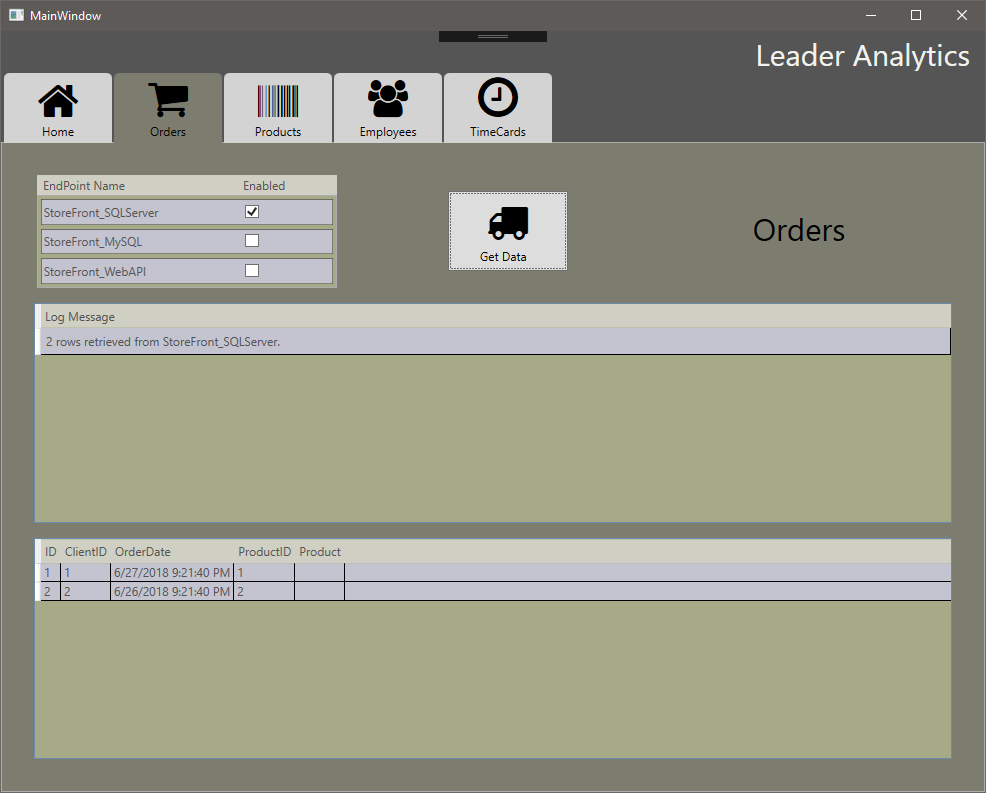
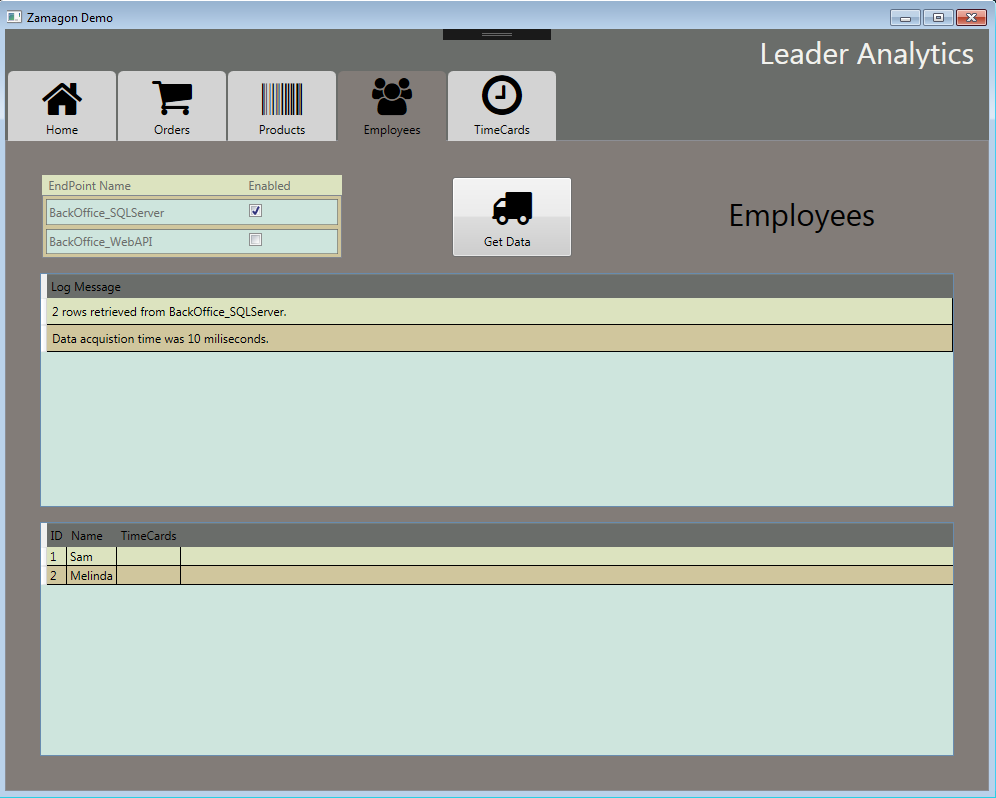
Cosmetic fixes

diff --git a/Zamagon.UI/Zamagon.WPF/App.xaml b/Zamagon.UI/Zamagon.WPF/App.xaml
@@ -5,11 +5,23 @@
              xmlns:fa="http://schemas.fontawesome.io/icons/"
              Startup="Application_Startup">
     <Application.Resources>
-        <SolidColorBrush x:Key="Color1" Color="#C4C3D0" />
+        <!--<SolidColorBrush x:Key="Color1" Color="#C4C3D0" />
         <SolidColorBrush x:Key="Color2" Color="#CFD0C3" />
         <SolidColorBrush x:Key="Color3" Color="#A7AA86" />
         <SolidColorBrush x:Key="Color4" Color="#7C7D6F" />
-        <SolidColorBrush x:Key="Color5" Color="#555555" />
+        <SolidColorBrush x:Key="Color5" Color="#555555" />-->
+        
+        <!--<SolidColorBrush x:Key="Color1" Color="#A1A0A0" />
+        <SolidColorBrush x:Key="Color2" Color="#727272" />
+        <SolidColorBrush x:Key="Color3" Color="#494848" />
+        <SolidColorBrush x:Key="Color4" Color="#222222" />
+        <SolidColorBrush x:Key="Color5" Color="#060606" />-->
+
+        <SolidColorBrush x:Key="Color1" Color="#CEE5DD" />
+        <SolidColorBrush x:Key="Color2" Color="#DCE3BF" />
+        <SolidColorBrush x:Key="Color3" Color="#D0C69D" />
+        <SolidColorBrush x:Key="Color4" Color="#827C78" />
+        <SolidColorBrush x:Key="Color5" Color="#6A6D6A" />
 
 
         <Style TargetType="Grid" x:Key="GridColors">
@@ -20,16 +32,16 @@
             <Setter Property="ColumnHeaderStyle">
                 <Setter.Value>
                     <Style TargetType="DataGridColumnHeader">
-                        <Setter Property="Background" Value="{StaticResource Color2}"/>
-                        <Setter Property="Foreground" Value="{StaticResource Color5}"/>
+                        <Setter Property="Background" Value="{StaticResource Color5}"/>
+                        <Setter Property="Foreground" Value="Black"/>
                         <Setter Property="Padding" Value="4"/>
                     </Style>
                 </Setter.Value>
             </Setter>
-            <Setter Property="Background" Value="{StaticResource Color3}"/>
-            <Setter Property="Foreground" Value="{StaticResource Color5}"/>
-            <Setter Property="RowBackground" Value="{StaticResource Color1}"/>
-            <Setter Property="AlternatingRowBackground" Value="{StaticResource Color1}"/>
+            <Setter Property="Background" Value="{StaticResource Color1}"/>
+            <Setter Property="Foreground" Value="Black"/>
+            <Setter Property="RowBackground" Value="{StaticResource Color2}"/>
+            <Setter Property="AlternatingRowBackground" Value="{StaticResource Color3}"/>
         </Style>
 
         <Style TargetType="local:EndPointListBox">

diff --git a/Zamagon.UI/Zamagon.WPF/Views/HomeView.xaml b/Zamagon.UI/Zamagon.WPF/Views/HomeView.xaml
@@ -9,7 +9,7 @@
              d:DesignHeight="450" d:DesignWidth="800">
     <ScrollViewer VerticalScrollBarVisibility="Auto">
         
-    <StackPanel Orientation="Vertical" Margin="25" Background="#FFB2B2B0" >
+    <StackPanel Orientation="Vertical" Margin="25" Background="WhiteSmoke" >
         <StackPanel.Resources>
             <Style TargetType="{x:Type TextBlock}">
                 <Setter Property="FontSize" Value="16"/>

diff --git a/Zamagon.UI/Zamagon.WPF/Views/OrdersViewModel.cs b/Zamagon.UI/Zamagon.WPF/Views/OrdersViewModel.cs
@@ -1,4 +1,5 @@
 using System;
+using System.Diagnostics;
 using System.Collections.Generic;
 using System.Collections.ObjectModel;
 using System.Linq;
@@ -24,10 +25,13 @@ namespace Zamagon.WPF.Views
         public override async Task GetData(object arg)
         {
             await base.GetData(API_Name.StoreFront);
+            Stopwatch sw = Stopwatch.StartNew();
             StoreFrontServiceClient = Container.Resolve<IAdaptiveClient<ISFServiceManifest>>();
-            List<Order> orders = await StoreFrontServiceClient.TryAsync(async x => await x.OrdersService.GetOrders());
+            List<Order> orders = await StoreFrontServiceClient.TryAsync(x => x.OrdersService.GetOrders());
+            sw.Stop();
             orders.ForEach(x => Entities.Add(x));
             LogMessages.Add($"{orders.Count} rows retrieved from {StoreFrontServiceClient.CurrentEndPoint.Name}.");
+            LogMessages.Add($"Data acquistion time was {sw.ElapsedMilliseconds} miliseconds.");
         }
     }
 }

diff --git a/Zamagon.UI/Zamagon.WPF/Views/TimecardsViewModel.cs b/Zamagon.UI/Zamagon.WPF/Views/TimecardsViewModel.cs
@@ -1,4 +1,5 @@
 using System;
+using System.Diagnostics;
 using System.Collections.Generic;
 using System.Collections.ObjectModel;
 using System.Linq;
@@ -25,10 +26,12 @@ namespace Zamagon.WPF.Views
         {
             await base.GetData(API_Name.BackOffice);
             BackOfficeServiceClient = Container.Resolve<IAdaptiveClient<IBOServiceManifest>>();
-            List<TimeCard> cards = await BackOfficeServiceClient.TryAsync(async x => await x.TimeCardsService.GetTimeCards());
+            Stopwatch sw = Stopwatch.StartNew();
+            List<TimeCard> cards = await BackOfficeServiceClient.TryAsync(x => x.TimeCardsService.GetTimeCards());
+            sw.Stop();
             cards.ForEach(x => Entities.Add(x));
             LogMessages.Add($"{cards.Count} rows retrieved from {BackOfficeServiceClient.CurrentEndPoint.Name}.");
-            
+            LogMessages.Add($"Data acquistion time was {sw.ElapsedMilliseconds} miliseconds.");
         }
     }
 }

diff --git a/Zamagon.UI/Zamagon.WPF/Views/EmployeesViewModel.cs b/Zamagon.UI/Zamagon.WPF/Views/EmployeesViewModel.cs
@@ -1,4 +1,5 @@
 using System;
+using System.Diagnostics;
 using System.Collections.Generic;
 using System.Collections.ObjectModel;
 using System.Linq;
@@ -25,10 +26,13 @@ namespace Zamagon.WPF.Views
         {
             await base.GetData(API_Name.BackOffice);
             BackOfficeServiceClient = Container.Resolve<IAdaptiveClient<IBOServiceManifest>>();
-            List<Employee> emps = await BackOfficeServiceClient.TryAsync(async x => await x.EmployeesService.GetEmployees());
+            Stopwatch sw = Stopwatch.StartNew();
+            List<Employee> emps = await BackOfficeServiceClient.TryAsync(x => x.EmployeesService.GetEmployees());
+            sw.Stop();
             emps.ForEach(x => Entities.Add(x));
             LogMessages.Add($"{emps.Count} rows retrieved from {BackOfficeServiceClient.CurrentEndPoint.Name}.");
-            
+            LogMessages.Add($"Data acquistion time was {sw.ElapsedMilliseconds} miliseconds.");
+
         }
     }
 }

diff --git a/Zamagon.UI/Zamagon.WPF/Views/ProductsViewModel.cs b/Zamagon.UI/Zamagon.WPF/Views/ProductsViewModel.cs
@@ -1,4 +1,5 @@
 using System;
+using System.Diagnostics;
 using System.Collections.Generic;
 using System.Collections.ObjectModel;
 using System.Linq;
@@ -25,9 +26,12 @@ namespace Zamagon.WPF.Views
         {
             await base.GetData(API_Name.StoreFront);
             StoreFrontServiceClient = Container.Resolve<IAdaptiveClient<ISFServiceManifest>>();
-            List<Product> products = await StoreFrontServiceClient.TryAsync(async x => await x.ProductsService.GetProducts());
+            Stopwatch sw = Stopwatch.StartNew();
+            List<Product> products = await StoreFrontServiceClient.TryAsync(x => x.ProductsService.GetProducts());
+            sw.Stop();
             products.ForEach(x => Entities.Add(x));
             LogMessages.Add($"{products.Count} rows retrieved from {StoreFrontServiceClient.CurrentEndPoint.Name}.");
+            LogMessages.Add($"Data acquistion time was {sw.ElapsedMilliseconds} miliseconds.");
         }
     }
 }

diff --git a/Zamagon.API/Controllers/TimeCardsController.cs b/Zamagon.API/Controllers/TimeCardsController.cs
@@ -24,7 +24,7 @@ namespace Zamagon.API.Controllers
         [Route("api/BackOffice/TimeCards")]
         public async Task<List<TimeCard>> GetTimeCards()
         {
-            return await serviceClient.CallAsync(async x => await x.GetTimeCards());
+            return await serviceClient.CallAsync(x => x.GetTimeCards());
         }
     }
 }

diff --git a/Zamagon.API/Controllers/EmployeesController.cs b/Zamagon.API/Controllers/EmployeesController.cs
@@ -24,7 +24,7 @@ namespace Zamagon.API.Controllers
         [Route("api/BackOffice/Employees")]
         public async Task<List<Employee>> GetEmployees()
         {
-            return await serviceClient.CallAsync(async x => await x.GetEmployees());
+            return await serviceClient.CallAsync(x => x.GetEmployees());
         }
 
 

diff --git a/Zamagon.API/Controllers/OrdersController.cs b/Zamagon.API/Controllers/OrdersController.cs
@@ -24,7 +24,7 @@ namespace Zamagon.API.Controllers
         [Route("api/StoreFront/Orders")]
         public async Task<List<Order>> GetOrders()
         {
-            return await serviceClient.CallAsync(async x => await x.GetOrders());
+            return await serviceClient.CallAsync(x => x.GetOrders());
         }
 
 

diff --git a/Zamagon.API/Controllers/ProductsController.cs b/Zamagon.API/Controllers/ProductsController.cs
@@ -24,7 +24,7 @@ namespace Zamagon.API.Controllers
         [HttpGet]
         public async Task<List<Product>> GetProducts()
         {
-            return await serviceClient.CallAsync(async x => await x.GetProducts());
+            return await serviceClient.CallAsync(x => x.GetProducts());
         }
     }
 }
